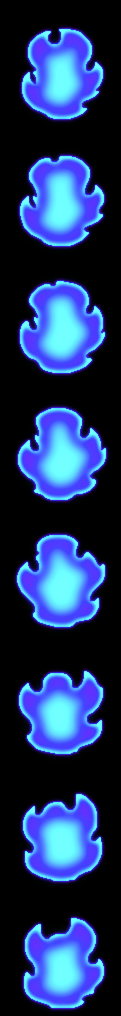
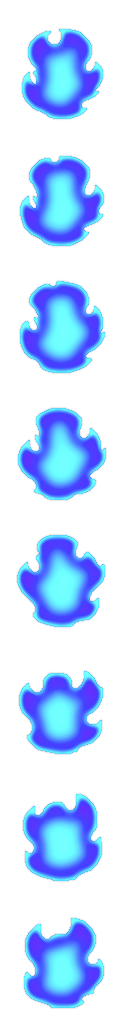
Updated ssb aura, ssj speeds still need adjusting

diff --git a/Transformations/LSSJs/Wrathful/WrathfulTransformation.cs b/Transformations/LSSJs/Wrathful/WrathfulTransformation.cs
@@ -9,7 +9,7 @@ namespace DBT.Transformations.LSSJs.Wrathful
     public partial class WrathfulTransformation : TransformationDefinition
     {
         public WrathfulTransformation(params TransformationDefinition[] parents)
-            : base("Wrathful", "Wrathful", typeof(WrathfulTransformationBuff), 1.5f, 1.5f, 3,
+            : base("Wrathful", "Wrathful", typeof(WrathfulTransformationBuff), 1.5f, 1f, 3,
             new TransformationDrain(60f / Constants.TICKS_PER_SECOND, 0f),
             new WrathfulTransformationAppearance(),
             new TransformationOverload(0, 0), mastereable: false,
@@ -39,13 +39,13 @@ namespace DBT.Transformations.LSSJs.Wrathful
         {
             if (dbtPlayer.BaseMaxKi >= WrathfulAct3KiRequirement)
             {
-                return BaseSpeedMultiplier + 1.4f;
+                return BaseSpeedMultiplier + 0.45f;
             }
             else
             {
                 if (dbtPlayer.BaseMaxKi >= WrathfulAct2KiRequirement && dbtPlayer.BaseMaxKi < WrathfulAct3KiRequirement)
                 {
-                    return BaseSpeedMultiplier + 0.75f;
+                    return BaseSpeedMultiplier + 0.125f;
                 }
             }
             return BaseSpeedMultiplier;

diff --git a/Transformations/SSJGs/SSJBs/SSJB/SSJBTransformation.cs b/Transformations/SSJGs/SSJBs/SSJB/SSJBTransformation.cs
@@ -8,7 +8,7 @@ namespace DBT.Transformations.SSJGs.SSJBs.SSJB
     {
         public SSJBTransformation(params TransformationDefinition[] parents) : base(
             "SSJB", "Super Saiyan Blue", typeof(SSJBTransformationBuff),
-            4.5f, 4.5f, 32,
+            4.5f, 2.25f, 32,
             new TransformationDrain(5f, 2.5f), 
             new SSJBAppearance(),
             new TransformationOverload(0, 0), 
@@ -27,7 +27,7 @@ namespace DBT.Transformations.SSJGs.SSJBs.SSJB
     public sealed class SSJBAppearance : TransformationAppearance
     {
         public SSJBAppearance() : base(
-            new AuraAppearance(new AuraAnimationInformation(typeof(SSJBTransformation), 8, 3, BlendState.Additive, 1f, true),//.AlphaBlend when ssb aura gets updated
+            new AuraAppearance(new AuraAnimationInformation(typeof(SSJBTransformation), 8, 3, BlendState.AlphaBlend, 1f, true),//.AlphaBlend when ssb aura gets updated
                 new LightingAppearance(new float[] { 0.38f, 0.24f, 1.25f })),
             new HairAppearance(Color.White), Color.Blue, new Color(65, 113, 153))
         {

diff --git a/Transformations/Mystics/Mystic/MysticTransformation.cs b/Transformations/Mystics/Mystic/MysticTransformation.cs
@@ -7,8 +7,8 @@ namespace DBT.Transformations.Mystics.Mystic
 {
     public sealed class MysticTransformation : TransformationDefinition
     {
-        public MysticTransformation(params TransformationDefinition[] parents) : base("Mystic", "Mystic", typeof(MysticTransformationBuff), 1.6f, 1.6f, 3,
-            new TransformationDrain(25f / Constants.TICKS_PER_SECOND, 0f), new MysticTransformationAppearance(), 
+        public MysticTransformation(params TransformationDefinition[] parents) : base("Mystic", "Mystic", typeof(MysticTransformationBuff),
+            1.6f, 1.125f, 3, new TransformationDrain(25f / Constants.TICKS_PER_SECOND, 0f), new MysticTransformationAppearance(), 
             new TransformationOverload(0, 0), mastereable: false,
             parents: parents)
         {

diff --git a/Transformations/Mystics/AwakenedMystic/AwakenedMysticTransformation.cs b/Transformations/Mystics/AwakenedMystic/AwakenedMysticTransformation.cs
@@ -8,7 +8,7 @@ namespace DBT.Transformations.Mystics.AwakenedMystic
     {
         public AwakenedMysticTransformation(params TransformationDefinition[] parents) : base(
             "AwakenedMystic", "Awakened Mystic", typeof(AwakenedMysticTransformationBuff),
-            4.2f, 4.2f, 28, new TransformationDrain(80f / Constants.TICKS_PER_SECOND, 0f), new AwakenedMysticTransformationAppearance(),
+            4.2f, 2.1f, 28, new TransformationDrain(80f / Constants.TICKS_PER_SECOND, 0f), new AwakenedMysticTransformationAppearance(),
             new TransformationOverload(0f, 0f), mastereable: false, parents: parents)
         {
         }

diff --git a/Transformations/SSJGs/SSJBs/SSJBE/SSJBETransformation.cs b/Transformations/SSJGs/SSJBs/SSJBE/SSJBETransformation.cs
@@ -8,7 +8,7 @@ namespace DBT.Transformations.SSJGs.SSJBs.SSJBE
     {
         public SSJBETransformation(params TransformationDefinition[] parents) : base(
             "SSJBE", "Super Saiyan Blue Evolved", typeof(SSJBETransformationBuff),
-            5.25f, 5.25f, 42,
+            5.25f, 2.625f, 42,
             new TransformationDrain(280f / Constants.TICKS_PER_SECOND, 140f / Constants.TICKS_PER_SECOND),
             new SSJBEAppearance(),
             new TransformationOverload(0, 0), 

diff --git a/Transformations/Patreon/SSJ5/SSJ5Transformation.cs b/Transformations/Patreon/SSJ5/SSJ5Transformation.cs
@@ -9,7 +9,7 @@ namespace DBT.Transformations.Patreon.SSJ5
     {
         public SSJ5Transformation(params TransformationDefinition[] parents) : base(
             "SSJ5", "Super Saiyan 5", typeof(SSJ5TransformationBuff),
-            5.2f, 5.2f, 40,
+            5.3f, 2.7f, 45,
             new TransformationDrain(260f / Constants.TICKS_PER_SECOND, 100f / Constants.TICKS_PER_SECOND),
             new SSJ5Appearance(),
             new TransformationOverload(0, 0), 

diff --git a/Transformations/LSSJs/LSSJ/LSSJTransformation.cs b/Transformations/LSSJs/LSSJ/LSSJTransformation.cs
@@ -8,7 +8,7 @@ namespace DBT.Transformations.LSSJs.LSSJ
     {
         public LSSJTransformation(params TransformationDefinition[] parents) : base(
             "LSSJ", "Legendary Super Saiyan", typeof(LSSJTransformationBuff),
-            4.9f, 4.9f, 36, 
+            4.9f, 2.45f, 36, 
             new TransformationDrain(340f / 60, 170f / 60),
             new LSSJTransformationAppearance(),
             new TransformationOverload(0.1f, 0.05f), // 0.2f, 0.1f

diff --git a/Transformations/LSSJs/SSJCType/SSJCTypeTransformation.cs b/Transformations/LSSJs/SSJCType/SSJCTypeTransformation.cs
@@ -8,7 +8,7 @@ namespace DBT.Transformations.LSSJs.SSJCType
     {
         public SSJCTypeTransformation(params TransformationDefinition[] parents) : base(
             "SSJCType", "Super Saiyan C-Type", typeof(SSJCTypeTransformationBuff),
-            3.9f, 3.9f, 26, 
+            3.9f, 1.95f, 26, 
             new TransformationDrain(4, 2),
             new SSJCTypeTransformationAppearance(),
             new TransformationOverload(0.06f, 0.03f), 

diff --git a/Transformations/SSJs/SSJ1s/ASSJ1/ASSJ1Transformation.cs b/Transformations/SSJs/SSJ1s/ASSJ1/ASSJ1Transformation.cs
@@ -7,7 +7,7 @@ namespace DBT.Transformations.SSJs.SSJ1s.ASSJ1
     {
         public ASSJ1Transformation(params TransformationDefinition[] parents) : base(
             "ASSJ1", "Ascended Super Saiyan", typeof(ASSJ1TransformationBuff),
-            1.75f, 1.75f, 3, 
+            1.75f, 1.125f, 3, 
             new TransformationDrain(70f / 60, 35f / 60), 
             new SSJ1Appearance(),
             new TransformationOverload(0, 0),

diff --git a/Transformations/SSJs/SSJ1s/USSJ1/USSJ1Transformation.cs b/Transformations/SSJs/SSJ1s/USSJ1/USSJ1Transformation.cs
@@ -7,7 +7,7 @@ namespace DBT.Transformations.SSJs.SSJ1s.USSJ1
     {
         public USSJ1Transformation(params TransformationDefinition[] parents) : base(
             "USSJ1", "Ultra Super Saiyan", typeof(USSJ1TransformationBuff),
-            1.90f, 1.45f, 5, 
+            1.90f, 0.825f, 5, 
             new TransformationDrain(1.5f, 0.75f), 
             new SSJ1Appearance(),
             new TransformationOverload(0, 0),

diff --git a/Transformations/SSJs/SSJ4s/SSJ4/SSJ4Transformation.cs b/Transformations/SSJs/SSJ4s/SSJ4/SSJ4Transformation.cs
@@ -8,7 +8,7 @@ namespace DBT.Transformations.SSJs.SSJ4s.SSJ4
     {
         public SSJ4Transformation(params TransformationDefinition[] parents) : base(
             "SSJ4", "Super Saiyan 4", typeof(SSJ4TransformationBuff),
-            3.30f, 3.30f, 22,
+            3.30f, 1.65f, 22,
             new TransformationDrain(170f / 60, 80f / 60), 
             new SSJ4Appearance(),
             new TransformationOverload(0, 0), 

diff --git a/Transformations/SSJGs/SSJG/SSJGTransformation.cs b/Transformations/SSJGs/SSJG/SSJGTransformation.cs
@@ -8,7 +8,7 @@ namespace DBT.Transformations.SSJGs.SSJG
     {
         public SSJGTransformation(params TransformationDefinition[] parents) : base(
             "SSJG", "Super Saiyan God", typeof(SSJGTransformationBuff),
-            3.5f, 3.5f, 24, 
+            3.5f, 1.75f, 24, 
             new TransformationDrain(200f / 60, 100f / 60), 
             new SSJGAppearance(),
             new TransformationOverload(0, 0))
